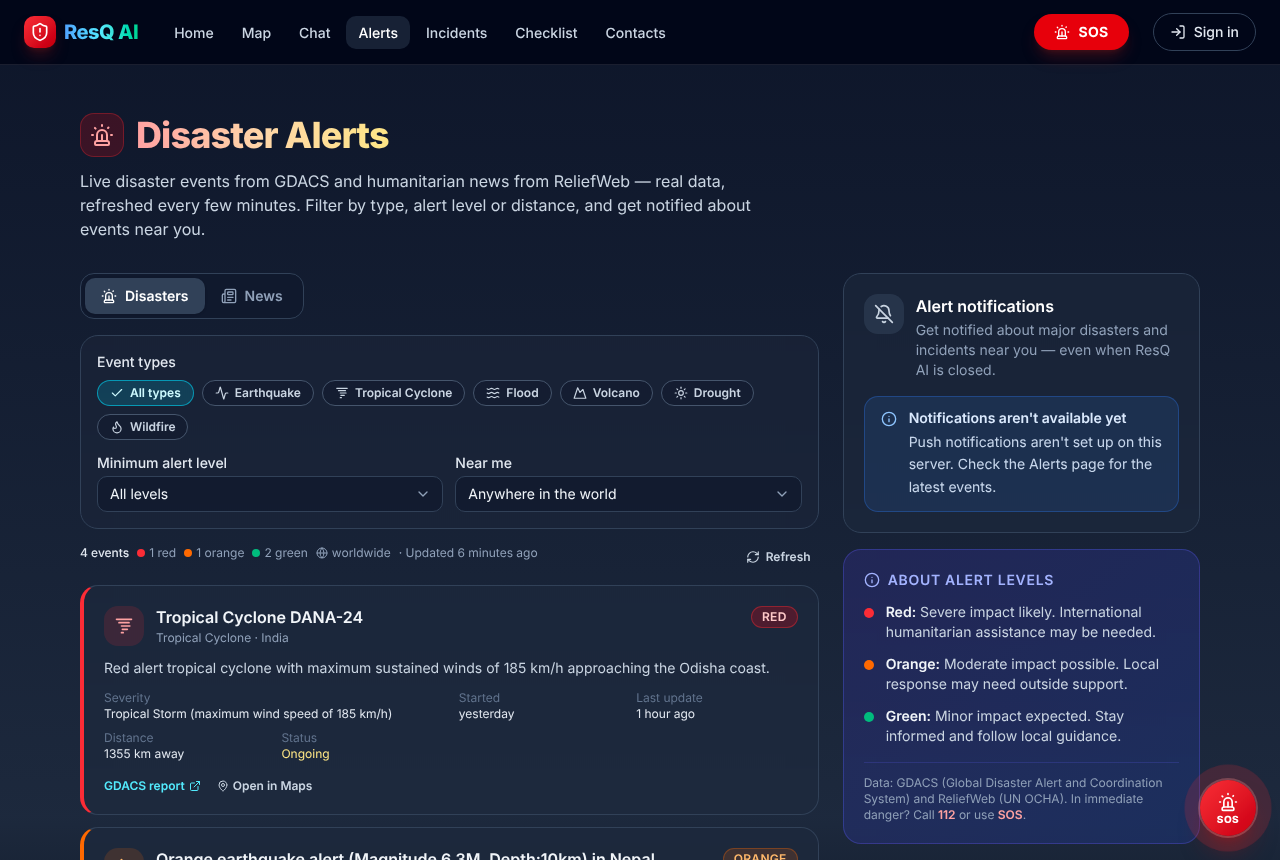
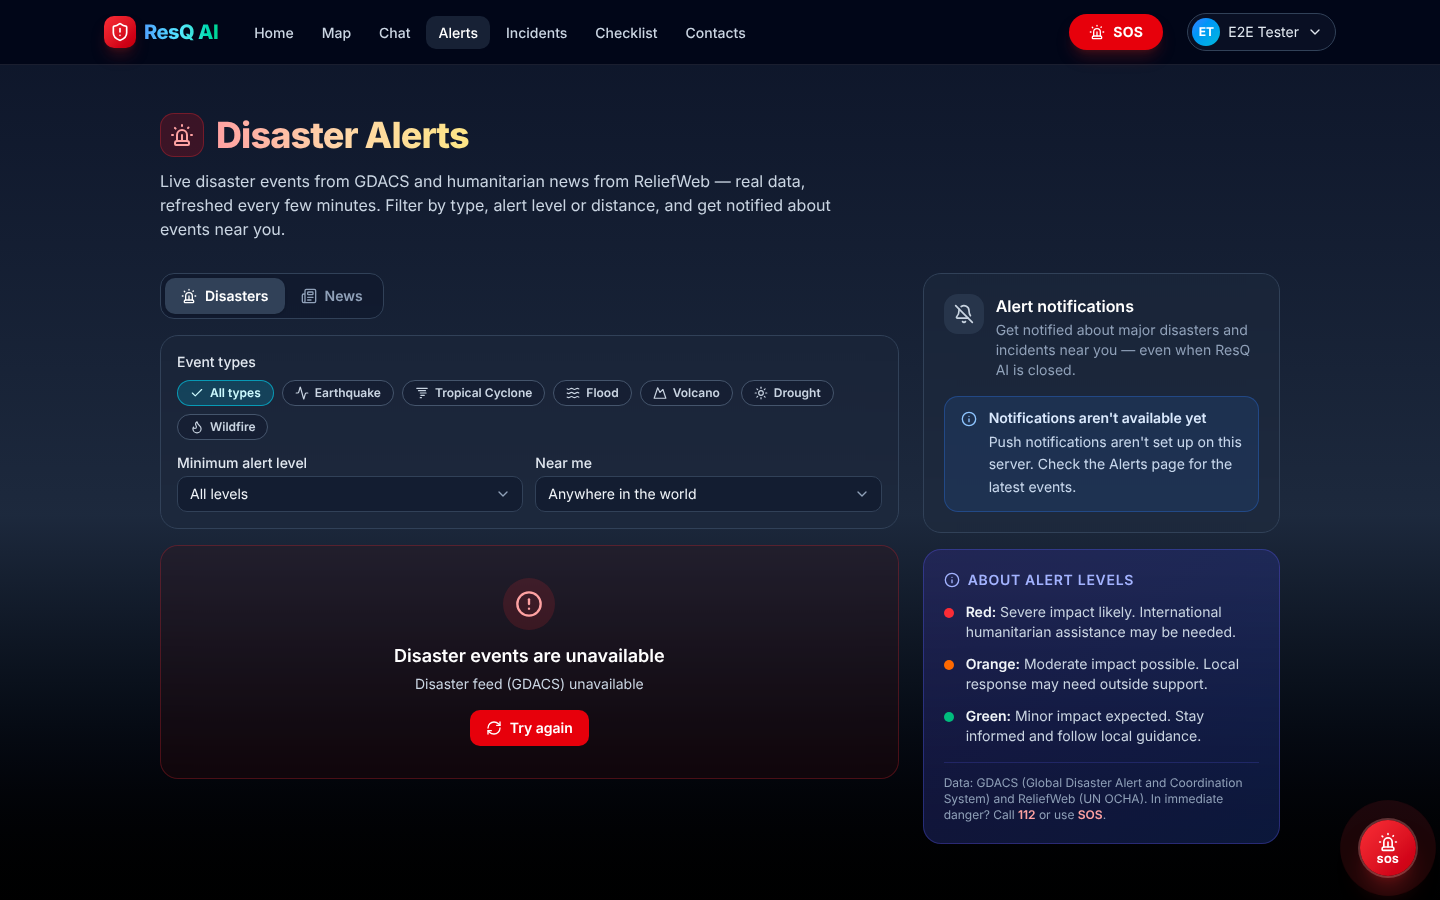
docs: fresh screenshots of the production build; drop outdated v1 images
All docs/screenshots captures (home, chat, map, alerts, incidents, SOS,
checklist, contacts, mobile) are taken from production builds; live
feeds show their unavailable/retry states because the capture
environment has no internet. The old docs/images captures are removed
and the animated demo is renamed to .webp to match its real format.

Claude-Session: https://claude.ai/code/session_01BqnpcVfG9jHuBCxQartjPk

diff --git a/README.md b/README.md
@@ -68,19 +68,25 @@ There is no mock data. Every integration that needs a key is optional and degrad
 
 | Home | Chat | Relief map |
 |---|---|---|
-| ![Home](docs/images/home.png) | ![Emergency AI chat](docs/images/chat.png) | ![Relief map](docs/images/map.png) |
-
-| Checklist | Contacts | Demo |
-|---|---|---|
-| ![Checklist](docs/images/checklist.png) | ![Contacts](docs/images/contacts.png) | ![Demo](docs/images/demo.gif) |
+| ![Home](docs/screenshots/home.png) | ![Emergency AI chat](docs/screenshots/chat.png) | ![Relief map](docs/screenshots/map.png) |
 
 | Alerts | Incidents | SOS | Mobile |
 |---|---|---|---|
 | ![Disaster alerts](docs/screenshots/alerts.png) | ![Community incidents](docs/screenshots/incidents.png) | ![SOS](docs/screenshots/sos.png) | ![Mobile layout](docs/screenshots/mobile.png) |
 
-The `docs/screenshots/` images were taken from the production build. The GDACS events, news and
-weather shown in them are sample data (the capture environment had no internet access); in a
-real deployment these panels show the live feeds.
+| Checklist | Contacts | Demo (earlier UI) |
+|---|---|---|
+| ![Checklist](docs/screenshots/checklist.png) | ![Contacts](docs/screenshots/contacts.png) | ![Demo of an earlier version](docs/images/demo.webp) |
+
+The `docs/screenshots/` images were taken from the production Docker images (`docker compose`,
+signed in, through the nginx proxy) in an environment without internet access. That is why the
+panels fed by live sources (GDACS alerts and news, weather, OpenStreetMap places and map tiles)
+show the app's "unavailable" / retry states and the map has no background tiles; in a real
+deployment they show the live data. The chat answer is the built-in fallback (no Gemini key), and
+the incidents were reported through the running app. The checklist, contacts and mobile captures
+come from a production build of the same code (`next build` + `next start`); the checklist is the
+built-in flood list and the contacts are sample entries. The animated demo
+(`docs/images/demo.webp`, an animated WebP) was recorded with an earlier version of the UI.
 
 ---
 
@@ -268,8 +274,9 @@ Empty values mean "not configured". The matching feature switches off or falls b
 | `TRUSTED_PROXY_HOPS` | `0` | Reverse proxies directly in front of the **backend** whose `X-Forwarded-For` entry is trusted. `0` ignores the header. Browsers relayed by the Next.js proxy are identified by `X-ResQ-Client-IP` (accepted only together with a valid `X-Internal-Key`), so the standard setup needs `0`. |
 | `SOS_SMS_PER_NUMBER_LIMIT` | `3/hour;10/day` | Twilio SOS SMS per destination number (keyed hash). Numbers over budget are reported in `sms.failed` and covered by `fallback_sms_uri`. |
 | `SOS_SMS_PER_CLIENT_LIMIT` | `30/hour;100/day` | Twilio SOS SMS per caller (signed-in user id, else client address with IPv6 by `/64`), so one caller cannot use up the shared budgets with made-up numbers. |
-| `SOS_SMS_ANONYMOUS_LIMIT` | `200/hour;1000/day` | Twilio SOS SMS for all anonymous callers together (counted inside the global budget), so signed-in users always keep the rest. |
-| `SOS_SMS_GLOBAL_LIMIT` | `500/hour;3000/day` | Twilio SOS SMS for the whole server (caps the Twilio bill whatever callers do). Numbers Twilio rejects are refunded. |
+| `SOS_SMS_PER_ADDRESS_LIMIT` | `60/hour;200/day` | Twilio SOS SMS per client address (IPv6 by `/64`) for everyone sending from it, signed in or not, so many cheap accounts created on one address share one budget. Signed-in requests count here only when the Next.js server reports the address. People behind one shared address (shelter Wi-Fi, carrier NAT) share it as well. |
+| `SOS_SMS_ANONYMOUS_LIMIT` | `200/hour;1000/day` | Twilio SOS SMS for all anonymous callers together (counted inside the global budget), so anonymous traffic can never take more than this part of it. |
+| `SOS_SMS_GLOBAL_LIMIT` | `500/hour;3000/day` | Twilio SOS SMS for the whole server (caps the Twilio bill whatever callers do). Numbers Twilio rejects are refunded. Callers spread over many addresses can still use it up; contacts over budget get the native-SMS fallback. |
 | `SOS_SMS_REQUIRE_AUTH` | `false` | `true` sends Twilio SMS only for signed-in users; anonymous callers get the native-SMS fallback. |
 | `ALERT_POLLER_ENABLED` | `false` | Start the background GDACS poller that pushes Orange/Red alerts (needs VAPID keys). The example env files and Compose turn it on. When off, `/api/push/vapid-public-key` reports `disaster_alerts: false` and the app hides that topic. |
 | `ALERT_POLL_INTERVAL_SECONDS` | `600` | Poll interval (30 to 86400). |
@@ -329,7 +336,7 @@ below sits under `/api` on the backend. From the browser, call it through the pr
 
 | Method | Path | Auth | Description |
 |---|---|---|---|
-| GET | `/api/places?lat&lon&type=hospital&radius=5000&limit=100` | none | `{places[{id, name, type, lat, lon, distance_km, address, phone}]}`, nearest first. `type` is `hospital`, `shelter`, `police`, `fire_station` or `pharmacy`. The radius is clamped to 500-20000 m. One Overpass query per map view (a ~1.1 km cell and a radius tier of 1/2/5/10/20 km) returns every place type and is cached for `PLACES_CACHE_TTL`, so all layers, nearby users and any radius up to the tier share it; distances are measured from the exact point. Returns `502 upstream_error` if Overpass fails (never an empty list). |
+| GET | `/api/places?lat&lon&type=hospital&radius=5000&limit=100` | none | `{places[{id, name, type, lat, lon, distance_km, address, phone}]}`, nearest first. `type` is `hospital`, `shelter`, `police`, `fire_station` or `pharmacy`. The radius is clamped to 500-20000 m. One Overpass query per map view (a ~1.1 km cell and a radius tier of 1/2/5/10/20 km) returns every place type and is cached for `PLACES_CACHE_TTL`, so all layers, nearby users and any radius up to the tier share it; distances are measured from the exact point. Returns `502 upstream_error` if Overpass fails (never an empty list), also for a type Overpass did not get to before running out of time (a partial answer serves only the types it searched completely). |
 | GET | `/api/hospitals`, `/api/shelters`, `/api/police`, `/api/fire-stations` (`?lat&lon`) | none | Legacy shortcuts with the same item shape: `{"hospitals": [...]}`, `{"shelters": [...]}`, `{"police": [...]}`, `{"fire_stations": [...]}`. |
 
 ### SOS
@@ -371,7 +378,7 @@ Incident: `{id, created_at, updated_at, lat, lon, disaster_type, severity, descr
 | Method | Path | Auth | Description |
 |---|---|---|---|
 | POST | `/api/users/register` | internal | `{email, password (8-128), name (1-80)}` returns **201** `{id, email, name}`, or `409 conflict` if the email is taken. Limit: 5/minute and 20/hour per end client. |
-| POST | `/api/users/verify` | internal | `{email, password}` returns `{id, email, name}`, or one generic `401` for bad credentials. Not subject to the per-IP default limit (every call comes from the Next.js server). Only **failed** attempts count: 5/minute and 20/hour per end client and account, 30/minute per end client, 100/hour per account; then `429 rate_limited`. Each attempt reserves its slot before the password check (concurrent guesses cannot slip past the limit) and gets it back when the password is correct; a client may have at most 4 sign-ins in flight. A successful sign-in clears that client's counter for the account. When the per-account bucket is full, it only refuses clients that already have 2 failures of their own against the account, so a burst of someone else's guessing does not lock the owner out. `503 service_busy` when the bcrypt queue is full. |
+| POST | `/api/users/verify` | internal | `{email, password}` returns `{id, email, name}`, or one generic `401` for bad credentials. Not subject to the per-IP default limit (every call comes from the Next.js server). Failed attempts are limited to 5/minute and 20/hour per end client and account, 30/minute per end client and 100/hour per account; then `429 rate_limited`. Each attempt reserves its slot before the password check (concurrent guesses cannot slip past the limit) and gets it back when the password is correct; a successful sign-in clears that client's counter for the account. When the per-account bucket is full, clients that signed in to the account before (remembered for 30 days) still get in, and clients with fewer than 2 failures of their own may try through a small per-account overflow bucket (20/hour), so someone else's guessing does not lock the owner out, while rotating networks (an IPv6 `/48` holds 65,536 `/64`s) cannot multiply the account's budget. Every attempt, successful or not, also counts against 30/minute and 600/hour per end client (correct passwords cost a bcrypt check too), and a client may have at most 4 sign-ins in flight. `503 service_busy` when the bcrypt queue is full; a client's first 3 bcrypt jobs per minute may use 8 slots of it that busier clients cannot take. |
 
 The browser cannot reach these through the proxy (`404`). Use the Next.js routes instead:
 `POST /api/register` and the NextAuth credentials sign-in.
@@ -474,8 +481,13 @@ or `http://localhost` for development.
   server-error` when they replace a `5xx`). Uncached API requests while offline get a `503`
   JSON error with code `network_error`. Navigations answered `5xx` fall back to the saved page,
   and for `502`-`504` without one to the offline page.
-- **Sign-out** clears the service worker's API cache and the tab's chat transcript and incident
-  draft, and unlinks this device's push subscription from the account (`lib/sign-out.ts`).
+- **Sign-out** clears the service worker's API cache (from the page itself, so it also works
+  after a hard reload, and responses still in flight are not stored afterwards), the tab's
+  chat transcript and incident draft, the last location and the remembered SOS name, and
+  unlinks this device's push subscription from the account (`lib/sign-out.ts`). When a
+  different account signs in without a sign-out in between (e.g. after the session expired),
+  the previous account's cached data is cleared the same way
+  (`components/SessionDataGuard.tsx`).
   Signing in re-links it, so test notifications reach the device that shows "On".
 - **Icons** are generated from SVG artwork with `npm run icons`
   (`frontend/scripts/generate-icons.mjs`, uses the `sharp` that ships with Next.js). The script
@@ -631,7 +643,8 @@ Nothing below leaves the browser except through explicit API calls:
 | Storage | Key | Contents |
 |---|---|---|
 | localStorage | `resq_contacts` | Emergency contacts (shared by `/contacts`, `/sos` and `/offline`). |
-| localStorage | `resq_sos_name` | Name used in SOS messages. |
+| localStorage | `resq_sos_name` | Name used in SOS messages, with a tag of the account it was used under: it is only offered to that account (or to anonymous use if it was typed signed out) and cleared on sign-out. |
+| localStorage | `resq_data_owner` | Short tag (a hash, not the id) of the last account signed in on this device; when another account signs in, the previous one's cached data is cleared. |
 | localStorage | `resq_checklist` | Last checklist and which items are ticked. |
 | localStorage | `resq_map_prefs` | Map layers and radius. |
 | localStorage | `resq_dismissed_alerts` | Dismissed home alert banners (kept 14 days). |
@@ -695,7 +708,11 @@ Nothing below leaves the browser except through explicit API calls:
   part was wrong.
 - **Privacy:** phone numbers are masked in logs (`+91******3210`) and API responses. Tokens are
   never logged. SOS audit rows store counts and a keyed hash of the client IP. Emergency
-  contacts never leave the device except when you send an SOS.
+  contacts never leave the device except when you send an SOS. Request logs never contain
+  query strings, which carry users' coordinates: the backend logs only method, path, status
+  and duration (`app.access`; uvicorn's own access log is off), and the nginx proxy logs
+  `$uri` without the query (`deploy/nginx/default.conf`, whose error log is kept at `crit`
+  because nginx's error lines quote the full request).
 - **Abuse protection:** every feature route is rate limited (SOS more strictly). Request bodies
   through the proxy must be JSON and at most 1 MB. Validation errors return `422` without
   internals. Unexpected errors return a generic `500` with a request id.
@@ -712,19 +729,26 @@ Nothing below leaves the browser except through explicit API calls:
 - **IPv6:** per-client limits key IPv6 callers by their `/64` network (one subscriber line or
   host), so rotating addresses inside one's own prefix does not create fresh buckets.
 - **SMS abuse:** besides the per-client `SOS_RATE_LIMIT`, Twilio messages have budgets per
-  destination number, per caller (`SOS_SMS_PER_CLIENT_LIMIT`: user id, else address), for all
-  anonymous callers together (`SOS_SMS_ANONYMOUS_LIMIT`, a part of the global budget) and per
-  server (`SOS_SMS_GLOBAL_LIMIT`). Numbers Twilio rejects (free) are refunded to the shared
-  budgets. One caller therefore cannot flood a phone or use up the server's SMS budget, and
-  anonymous traffic can never use up what signed-in users need. Over budget, the SOS still
+  destination number, per caller (`SOS_SMS_PER_CLIENT_LIMIT`: user id, else address), per
+  client address for all its users together (`SOS_SMS_PER_ADDRESS_LIMIT`, so a pile of
+  accounts registered from one address shares one budget), for all anonymous callers together
+  (`SOS_SMS_ANONYMOUS_LIMIT`, a part of the global budget) and per server
+  (`SOS_SMS_GLOBAL_LIMIT`). Numbers Twilio rejects (free) are refunded to the shared budgets.
+  One caller or one address therefore cannot flood a phone or use up the server's SMS budget,
+  and anonymous traffic can never take more than its pool. The global budget is a bill cap:
+  an attacker spread over many addresses can still use it up. Over budget, the SOS still
   succeeds and the UI offers the phone's own SMS app. For a public deployment with many
   anonymous visitors consider `SOS_SMS_REQUIRE_AUTH=true`.
 - **Overload:** sign-in and registration bcrypt work runs on a bounded queue (`503
-  service_busy` with `Retry-After` when full) and never holds a database connection, and an
-  exhausted database pool answers `503 service_busy` after 10 s instead of hanging. The SOS
-  SMS fan-out has a 12 s deadline and the audit write a 3 s bound, so an SOS always answers
-  before the proxy's 20 s timeout. Database errors never log row values
-  (`hide_parameters`).
+  service_busy` with `Retry-After` when full; part of it is reserved for clients that have
+  not used it in the last minute, and every sign-in counts against a per-client rate, so a
+  few clients looping a valid password cannot keep it full) and never holds a database
+  connection, and an exhausted database pool answers `503 service_busy` after 10 s instead
+  of hanging. The SOS SMS fan-out has a 12 s deadline and the audit write a 3 s bound (with
+  SQLite this is the 3 s busy timeout, since a cancelled statement still waits for it), so an
+  SOS always answers before the proxy's 20 s timeout. Nearby-places lookups have one 17 s
+  budget for the whole Overpass request, including a slowly streamed answer. Database errors
+  never log row values (`hide_parameters`).
 - **Web push endpoints** are allow-listed to browser push services and deliveries never follow
   redirects, so a subscription cannot make the server call internal addresses (SSRF).
   Subscriptions that fail 5 times in a row are deleted.
